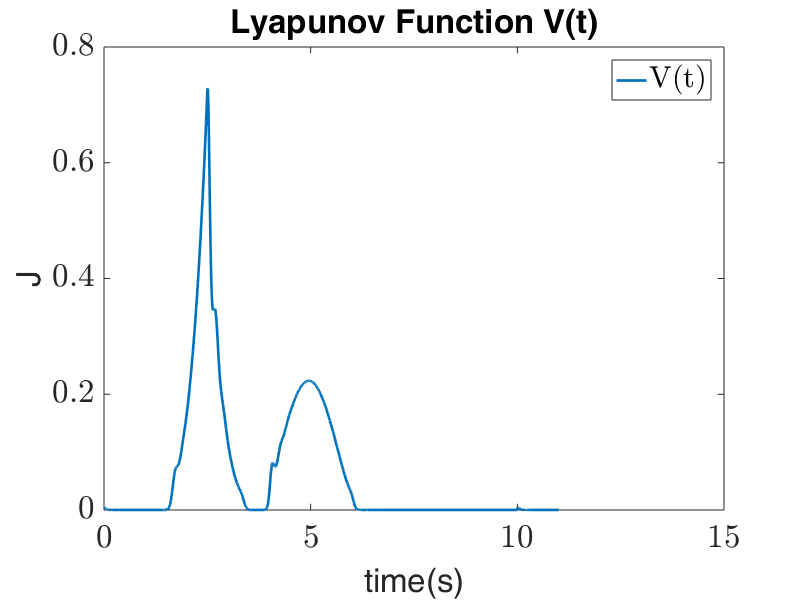
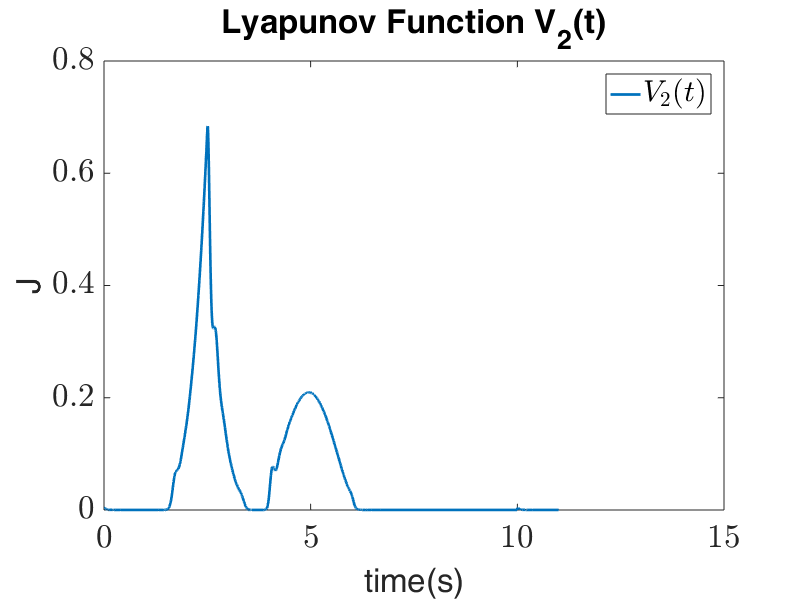
gamma that guarantees GAS

diff --git a/ImpedanceControl/main.m b/ImpedanceControl/main.m
@@ -49,7 +49,7 @@ Kicc = 20;
 
 alpha = 0;
 %% Lyapunov Fn Parameter
-gamma = min(eig(D)) / max(eig(Md));
+gamma = min(eig(D)) / max(eig(Md)) - 1;
 
 KdOld = Kd;
 
@@ -230,8 +230,8 @@ figure('pos',[10 10 800 600]);
 plot(t,V,'LineWidth',2);
 xlabel('time(s)');
 ylabel('J');
-title('Lyapunov Function V(t)')
-legend('V(t)')
+title('Lyapunov Function V_2(t)')
+legend('$V_2(t)$')
 set(gca,'FontSize',25)
 set(findall(gcf,'type','text'),'FontSize',25)
 % 
